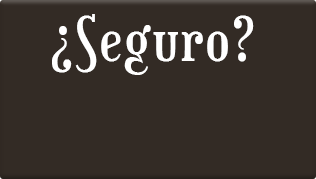
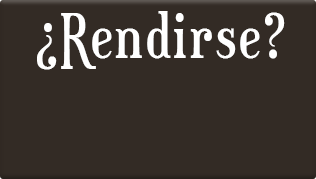
FeedBackIndividual
Indicado tanto la superación de un nivel como el abandono del mismo

Changed region(s): [[0.1139, 0.0559, 0.9114, 0.419]]

diff --git a/src/scenes/prehistoriaScene.js b/src/scenes/prehistoriaScene.js
@@ -92,7 +92,7 @@ class prehistoriaScene extends Phaser.Scene {
         this.is_paused = false;
         //this.cameras.main.zoom= 1.3;
         this.cameras.main.zoomTo(1.05, 1000);
-        this.cameras.main.fadeIn(1000);
+
         this.physics.world.bounds.setTo(92.5 * gameConfig.scale.width / 800, 69.5 * gameConfig.scale.width / 800, 615 * gameConfig.scale.height / 600, 461 * gameConfig.scale.height / 600);
         this.physics.world.setBoundsCollision(false, false, true, true);
 
@@ -207,7 +207,7 @@ class prehistoriaScene extends Phaser.Scene {
         this.physics.add.collider(this.bulletsPre, this.obstacles);
 
 
-        this.spriteParar = this.add.sprite(gameConfig.scale.width * 2.2 / 16, gameConfig.scale.height * 11 / 12, 'FreezeBON').setScale(0.1 * gameConfig.scale.width / 800);
+        this.spriteParar = this.add.sprite(gameConfig.scale.width * 15 / 16, gameConfig.scale.height * 11 / 12, 'FreezeBON').setScale(0.1 * gameConfig.scale.width / 800);
         this.spriteParar.setInteractive().on('pointerdown', () => this.player.body.moves = false /*cambiar a iddle */)
             .on('pointerup', () => this.player.body.moves = true)//,this.player.anims.play('walk', true))
             .on('pointerout', () => this.player.body.moves = true)//, this.player.anims.play('walk', true))
@@ -302,7 +302,7 @@ class prehistoriaScene extends Phaser.Scene {
         });
 
         this.spriteDesbloquearSi = this.add.sprite(gameConfig.scale.width * 0.9 / 2, (gameConfig.scale.height / 3) * 2.6, 'botonDesbloquearSi').setScale(0.5 * gameConfig.scale.height / 600);
-        this.spriteDesbloquearSi.setInteractive().on('pointerdown', () => { this.shootInput.destroy(); clearInterval(this.inter); this.music.stop(); this.scene.start(salir) });
+        this.spriteDesbloquearSi.setInteractive().on('pointerdown', () => this.rendirse(salir));
     }
     ocultarMenu(t) {
         this.music.setVolume(0.2);
@@ -312,10 +312,45 @@ class prehistoriaScene extends Phaser.Scene {
         t.BotonMenu.destroy();
         t.BotonCerrar.destroy();
     }
+    rendirse(escena) {
+        this.shootInput.destroy();
+        clearInterval(this.inter);
+        this.ocultarMenu(this);
+        this.mensajeSeguro.destroy();
+        this.spriteDesbloquearNo.destroy();
+        this.spriteDesbloquearSi.destroy();
+        this.tweens.add({
+            targets: this.music,
+            volume: 0,
+            duration: 500
+        }, this);
+        this.is_paused = true;
+        this.pauseGame(this.spriteParar, this.spriteDisparar, this.freezeInput, this.shootInput);
+        this.fondo = this.add.image(gameConfig.scale.width / 2, gameConfig.scale.height / 2, 'fondo').setScale(gameConfig.scale.height / 600).setTint(0x000000);
+        this.fondo.alpha = 0;
+        this.tweens.add({
+            targets: this.fondo,
+            alpha: 1,
+            duration: 500,
+        }, this);
+        if (espanol) {
+            this.lastima = this.add.image(gameConfig.scale.width / 2, gameConfig.scale.height / 2, 'Lastima').setScale(gameConfig.scale.height / 600);
+            this.continuar = this.add.sprite(gameConfig.scale.width / 2, gameConfig.scale.height * 2 / 3, 'ContinuarB').setScale(0.6*gameConfig.scale.height / 600);;
+        } else {
+            this.lastima = this.add.image(gameConfig.scale.width / 2, gameConfig.scale.height / 2, 'Lastimai').setScale(gameConfig.scale.height / 600);
+            this.continuar = this.add.sprite(gameConfig.scale.width / 2, gameConfig.scale.height * 2 / 3, 'ContinuarBi').setScale(0.6*gameConfig.scale.height / 600);;
+        }
+        this.continuar.setInteractive().on('pointerdown', () => {
+            this.music.stop();
+            this.scene.stop();
+            this.scene.start(escena);
+        })
+    }
     update() {
         if (this.gameOver) {
             clearInterval(this.inter);
             this.shootInput.destroy();
+            this.cameras.main.fadeIn(500, 180, 50, 50);
             //this.music.destroy();
             this.scene.sleep();
             this.scene.setActive(false);
@@ -323,11 +358,37 @@ class prehistoriaScene extends Phaser.Scene {
         }
         if (this.win) {
             clearInterval(this.inter);
+            //this.music.setVolume(0.05);
             this.shootInput.destroy();
             completedLevel[0].completado = true;
-            this.music.stop();
-            this.scene.stop();
-            this.scene.start("EgiptoScene");
+            this.tweens.add({
+                targets: this.music,
+                volume: 0,
+                duration: 500
+            }, this);
+            this.is_paused = true;
+            this.pauseGame(this.spriteParar, this.spriteDisparar, this.freezeInput, this.shootInput);
+            this.fondo = this.add.image(gameConfig.scale.width / 2, gameConfig.scale.height / 2, 'fondo').setScale(gameConfig.scale.height / 600).setTint(0x000000);
+            this.fondo.alpha = 0;
+            this.tweens.add({
+                targets: this.fondo,
+                alpha: 1,
+                duration: 1000,
+            }, this);
+            
+            if (espanol) {
+                this.enhorabuena = this.add.image(gameConfig.scale.width / 2, gameConfig.scale.height / 2, 'Enhorabuena').setScale(gameConfig.scale.height / 600);
+                this.continuar = this.add.sprite(gameConfig.scale.width / 2, gameConfig.scale.height * 2 / 3, 'ContinuarB').setScale(0.6*gameConfig.scale.height / 600);
+            } else {
+                this.enhorabuena = this.add.image(gameConfig.scale.width / 2, gameConfig.scale.height / 2, 'Enhorabuenai').setScale(gameConfig.scale.height / 600);
+                this.continuar = this.add.sprite(gameConfig.scale.width / 2, gameConfig.scale.height * 2 / 3, 'ContinuarBi').setScale(0.6*gameConfig.scale.height / 600);
+            }
+            this.continuar.setInteractive().on('pointerdown', () => {
+                this.music.stop();
+                this.scene.stop();
+                this.scene.start("EgiptoScene");
+            })
+
         }
     }
     pauseGame(spriteParar, spriteDisparar, f, s) {

diff --git a/src/scenes/bootScene.js b/src/scenes/bootScene.js
@@ -55,15 +55,22 @@ class bootScene extends Phaser.Scene {
         this.load.image('egiCat', 'assets/Objetos/2.AntiguoEgipto/object_cats.png');
         this.load.image('egiCup', 'assets/Objetos/2.AntiguoEgipto/object_cup.png');
         this.load.image('egiPyr', 'assets/Objetos/2.AntiguoEgipto/object_pyramid.png');
-        this.load.audio('egiMusic', ['assets/Música/PrehistoriaFinal.mp3', 'assets/Música/PrehistoriaFinal.ogg']);
+        this.load.audio('egiMusic', ['assets/Música/Egipto.mp3', 'assets/Música/Egipto.ogg']);
         //this.load.spritesheet('dude', 'assets/Interfaz/dude.png', { frameWidth: 32, frameHeight: 48 });
         this.load.image('egiPlayer', 'assets/Personajes/2.AntiguoEgipto/BasicoEgipto.png');
         //this.load.image('bullet', 'assets/Interfaz/Bullet.png');
         this.load.spritesheet('egiWeapon', 'assets/Armas/ArmaEgipto.png', { frameWidth: 235, frameHeight: 235 });
+        
         //Assets Juego
         this.load.image('CloseB','assets/Interfaz/CloseButton.png')
         this.load.image('FreezeBON', 'assets/Interfaz/FreezeButton.png');
         this.load.image('FreezeBOFF', 'assets/Interfaz/FreezeButtonOFF.png');
+        this.load.image('Enhorabuena', 'assets/Interfaz/NivelSuperadoTexto.png');
+        this.load.image('Enhorabuenai', 'assets/Interfaz/NivelSuperadoTextoi.png');
+        this.load.image('ContinuarB', 'assets/Interfaz/ContinuarButton.png');
+        this.load.image('ContinuarBi', 'assets/Interfaz/ContinuarButtoni.png');
+        this.load.image('Lastima', 'assets/Interfaz/RendidoTexto.png');
+        this.load.image('Lastimai', 'assets/Interfaz/RendidoTextoi.png');
 
         this.load.image('ShootBON', 'assets/Interfaz/ShootButton.png');
         this.load.image('ShootBOFF', 'assets/Interfaz/ShootButtonOFF.png');
@@ -74,8 +81,8 @@ class bootScene extends Phaser.Scene {
         this.load.image('PauseMenu', 'assets/Interfaz/Menu/fondoBlanco.png');
         this.load.image('PauseTitle', 'assets/Interfaz/Menu/tituloPaused.png');
         this.load.image('PauseTitlei', 'assets/Interfaz/Menu/tituloPausedi.png');
-        this.load.image('botonRendirse', 'assets/Interfaz/Rendirse.png');
-        this.load.image('botonRendirsei', 'assets/Interfaz/Rendirsei.png');
+        this.load.image('botonRendirse', 'assets/Interfaz//Menu/MainMenu.png');
+        this.load.image('botonRendirsei', 'assets/Interfaz//Menu/MainMenui.png');
         this.load.image('confirmarRendirse', 'assets/Interfaz/ConfirmarRendir.png');
         this.load.image('confirmarRendirsei', 'assets/Interfaz/ConfirmarRendiri.png');
         this.load.image('botonTienda', 'assets/Interfaz/Menu/botonTienda.png');

diff --git a/src/scenes/selectNivelHistoria.js b/src/scenes/selectNivelHistoria.js
@@ -24,7 +24,6 @@ class selectNivelHistoria extends Phaser.Scene {
     create() {
         this.FondoTienda = this.add.image(0, 0, 'fondoTienda').setOrigin(0);
         this.FondoTienda.setScale(gameConfig.scale.width / this.FondoTienda.width, gameConfig.scale.height / this.FondoTienda.height);
-        completedLevel[0].completado = true;
         if (espanol) {
             this.spriteTituloMapas = this.add.sprite(gameConfig.scale.width / 2, gameConfig.scale.height / 7, 'niveles').setScale(gameConfig.scale.height / 600);
             this.spriteTutorial= this.add.sprite(gameConfig.scale.width / 2, gameConfig.scale.height *5/ 7, 'tutorialHistoria').setScale(gameConfig.scale.height / 600);

diff --git a/src/main.js b/src/main.js
@@ -18,7 +18,7 @@
         physics: {
             default: 'arcade',
             arcade: {
-                debug: true,
+                debug: false,
                 gravity: { y: 200 }
             }
         },
